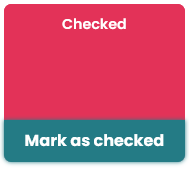
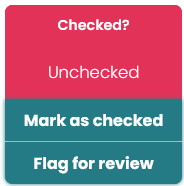
add marking for review to docs

diff --git a/docs/checking_a_funder.md b/docs/checking_a_funder.md
@@ -59,11 +59,13 @@ Use the "Add note" box to add a note about this funder. This should record any d
 
 For more details see ["Checking a Funder Year"](checking_a_funder_year)
 
-## Mark as checked
+## Mark as checked / mark for review
 
 Once you are happy that you have checked and edited a funder, you can mark as checked.
 
 ![Screenshot of the mark as checked box](images/funder-mark-as-checked.png)
+
+If you want to flag the record for review by someone else then you can also mark for review.
 
 ## Audit trail
 
